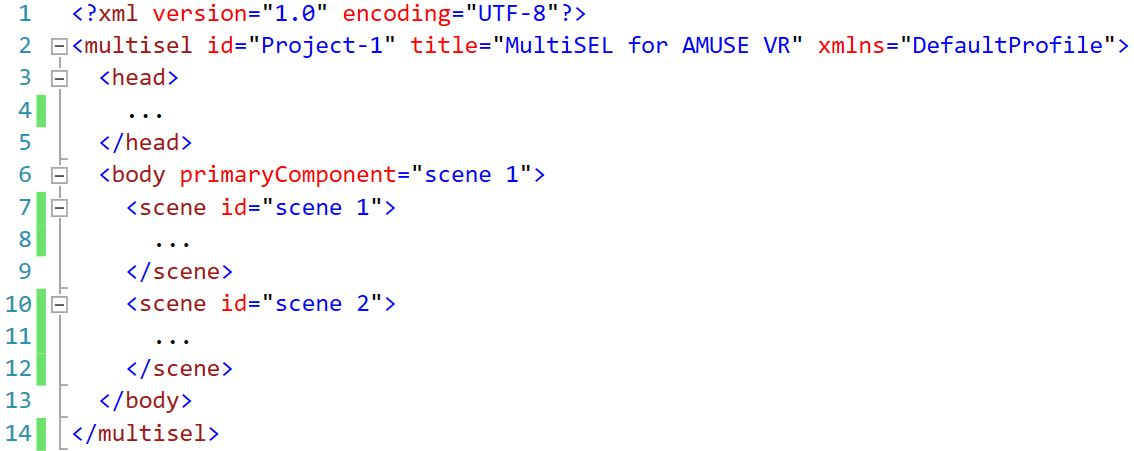
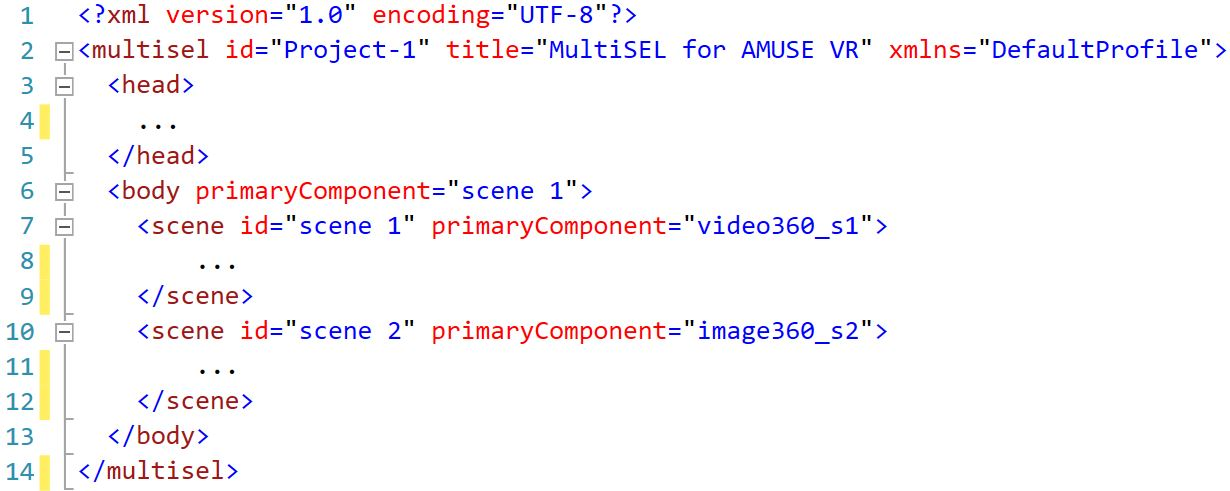
.

diff --git a/tutorial2.html b/tutorial2.html
@@ -35,6 +35,8 @@
         que será a cena que iniciará a aplicação.</p>
         <p>Na linha 7 com fim na linha 9, temos um exemplo da <i>tag scene</i>, que especifiará todas as mídias,
         efeitos sensoriais e alguns relacionamentos referentes a esta cena.</p>
+        <p>Na linha 7, ainda na <i>tag scene</i>, temos o atributo primaryComponent que indica a mídia "<i>video360_s1</i>",
+        que será a mídia que iniciará a cena.</p>
         </br>
     </div>
 </body>
